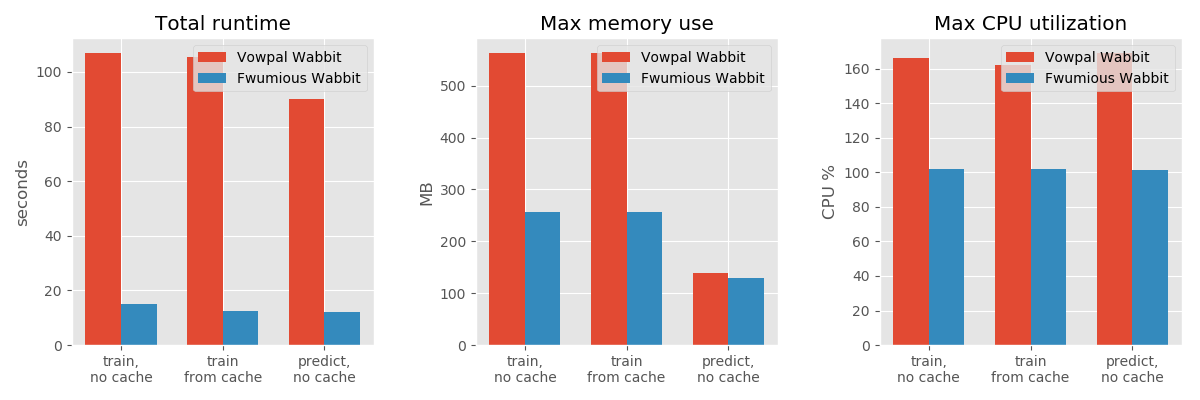
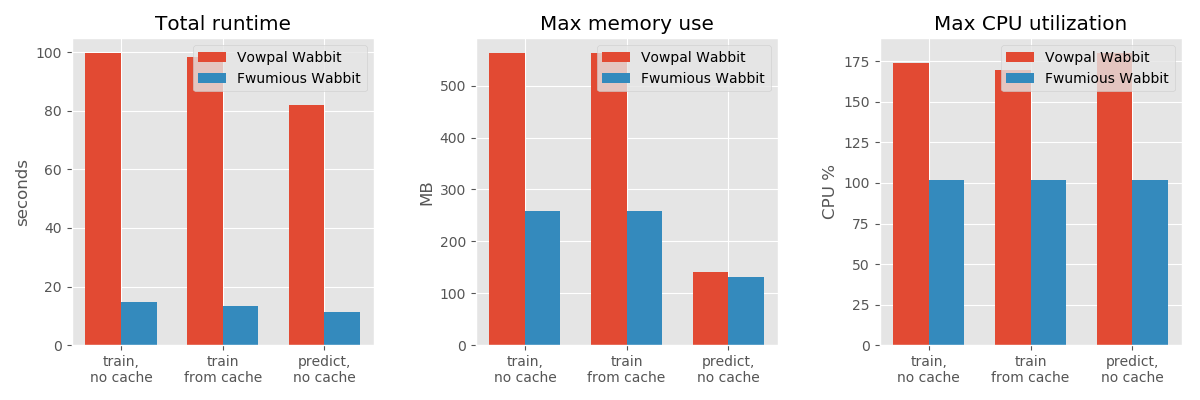
bumping version & benchmark info

diff --git a/src/version.rs b/src/version.rs
@@ -1,1 +1,1 @@
-pub static LATEST: &str = "0.2";
+pub static LATEST: &str = "0.1";

diff --git a/BENCHMARK.md b/BENCHMARK.md
@@ -14,12 +14,12 @@ here are the results for 3 runs for each scenario, taking mean values:
 ![benchmark results](benchmark_results.png)
 Scenario|Runtime (seconds)|Memory (MB)|CPU %
 ----|----:|----:|----:
-vw train, no cache|106.96 | 563 | 166.17
-fw train, no cache|15.21 | 257 | 102.00
-vw train, using cache|105.56 | 562 | 161.87
-fw train, using cache|12.63 | 257 | 102.10
-vw predict, no cache|90.00 | 139 | 169.03
-fw predict, no cache|12.25 | 129 | 101.40
+vw train, no cache|99.76 | 563 | 174.13
+fw train, no cache|14.66 | 258 | 101.67
+vw train, using cache|98.45 | 563 | 169.67
+fw train, using cache|13.31 | 258 | 101.93
+vw predict, no cache|82.01 | 141 | 180.23
+fw predict, no cache|11.46 | 130 | 102.03
 
 ### Model equivalence
 loss values for the test set:
@@ -81,8 +81,8 @@ or, if you just want the numbers with less dependencies run:
 
 ### versions:
 ```
-vowpal wabbit 8.9.0 (git commit: cfa6749a9)
-fwumious wabbit 0.2 (git commit: 6910559)
+vowpal wabbit 8.9.2 (git commit: 884420267)
+fwumious wabbit 0.1 (git commit: 42a0a23)
 ```
 
 ### CPU Info
@@ -92,5 +92,5 @@ Intel(R) Xeon(R) CPU E5-2630 v2 @ 2.60GHz
 ### Operating System
 ```
 System: Linux
-Version: #186-Ubuntu SMP Mon Dec 4 19:09:19 UTC 2017
+Version: #151-Ubuntu SMP Fri Jun 18 19:21:19 UTC 2021
 ```
